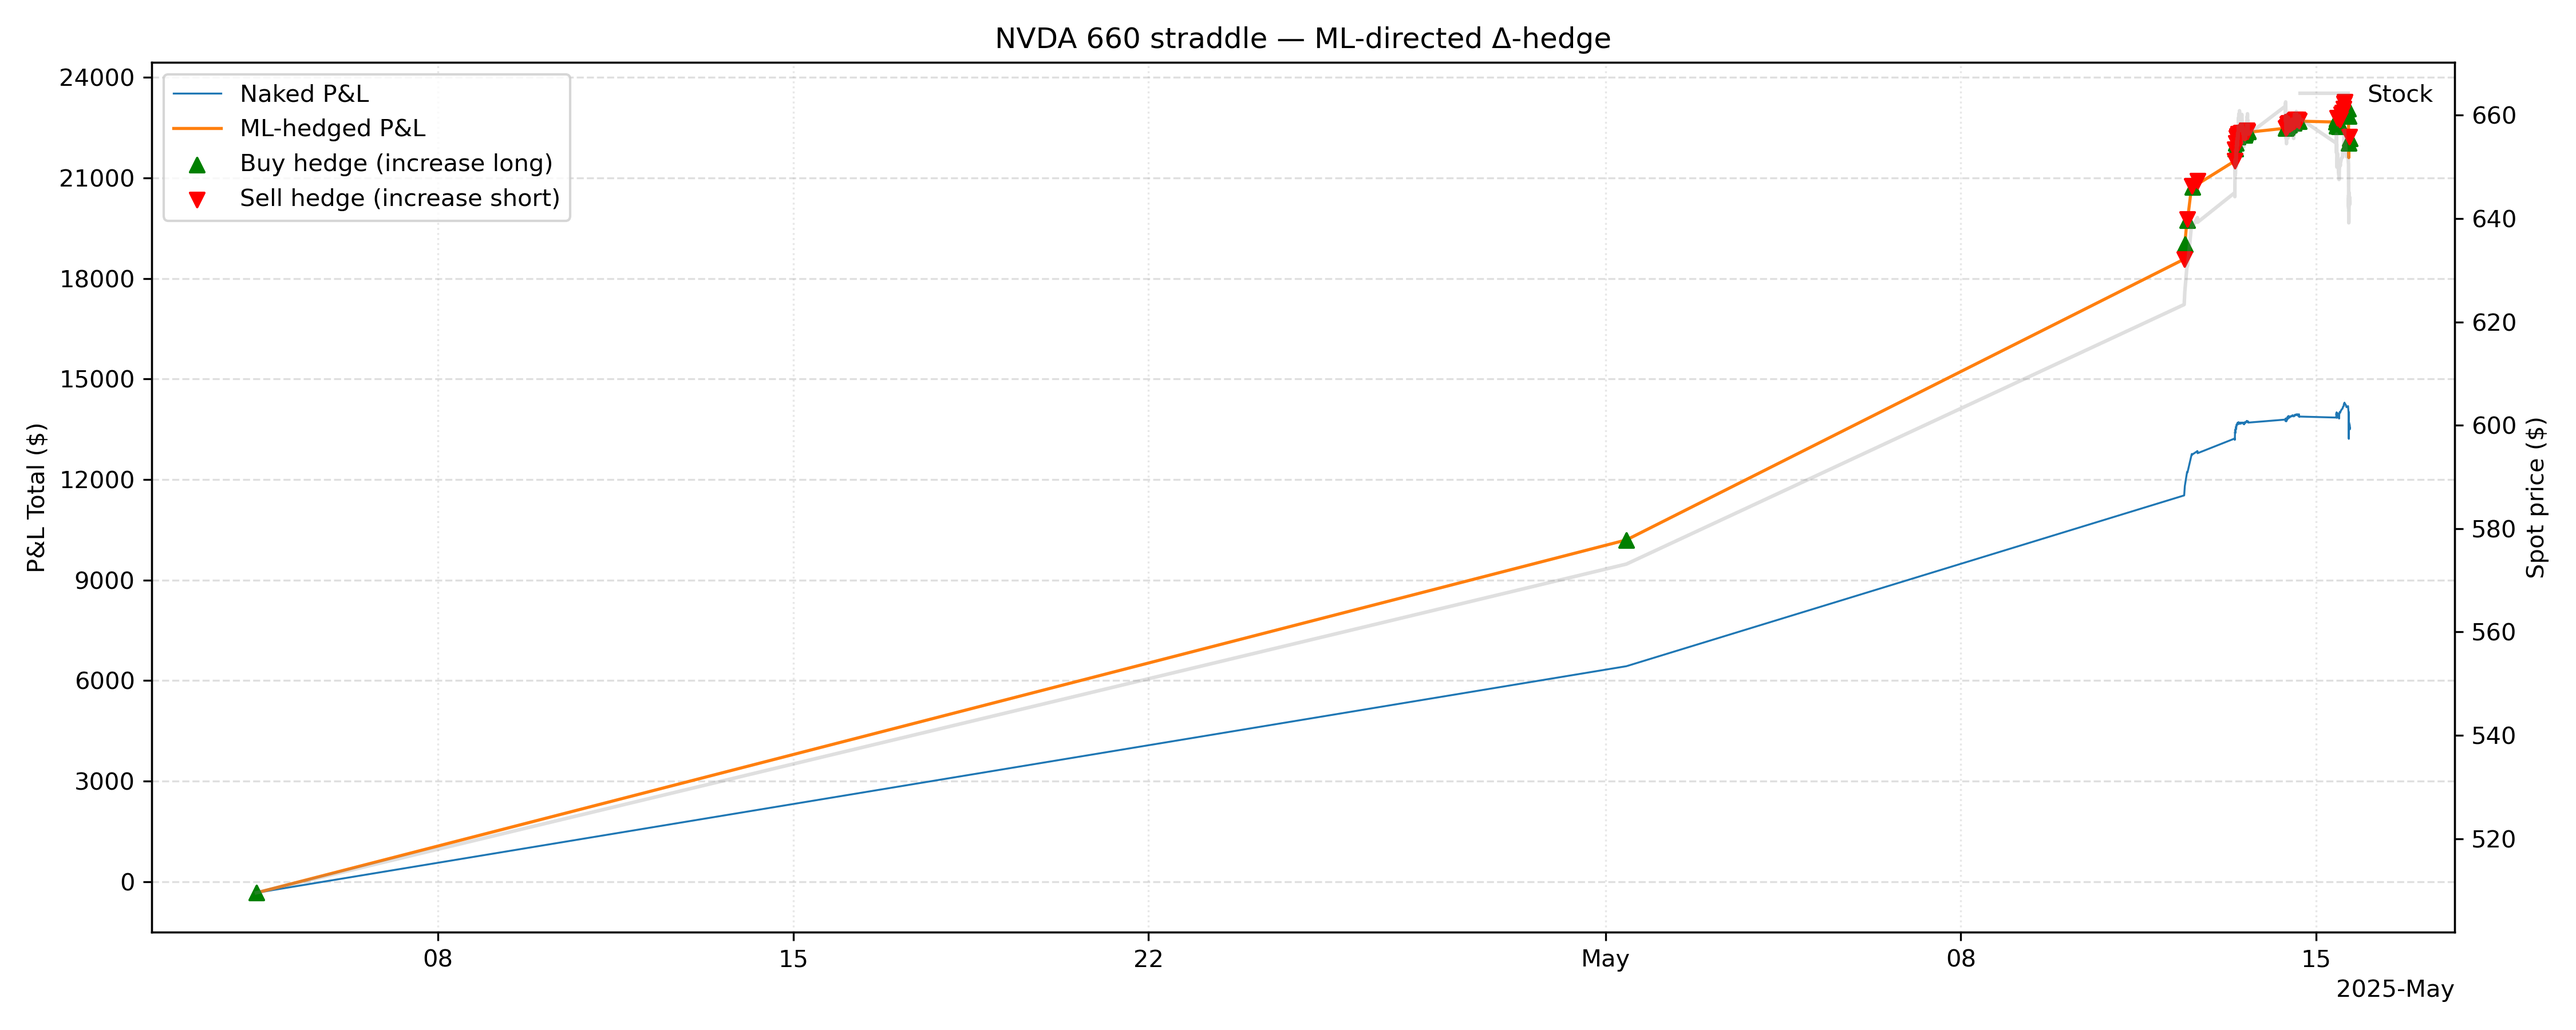
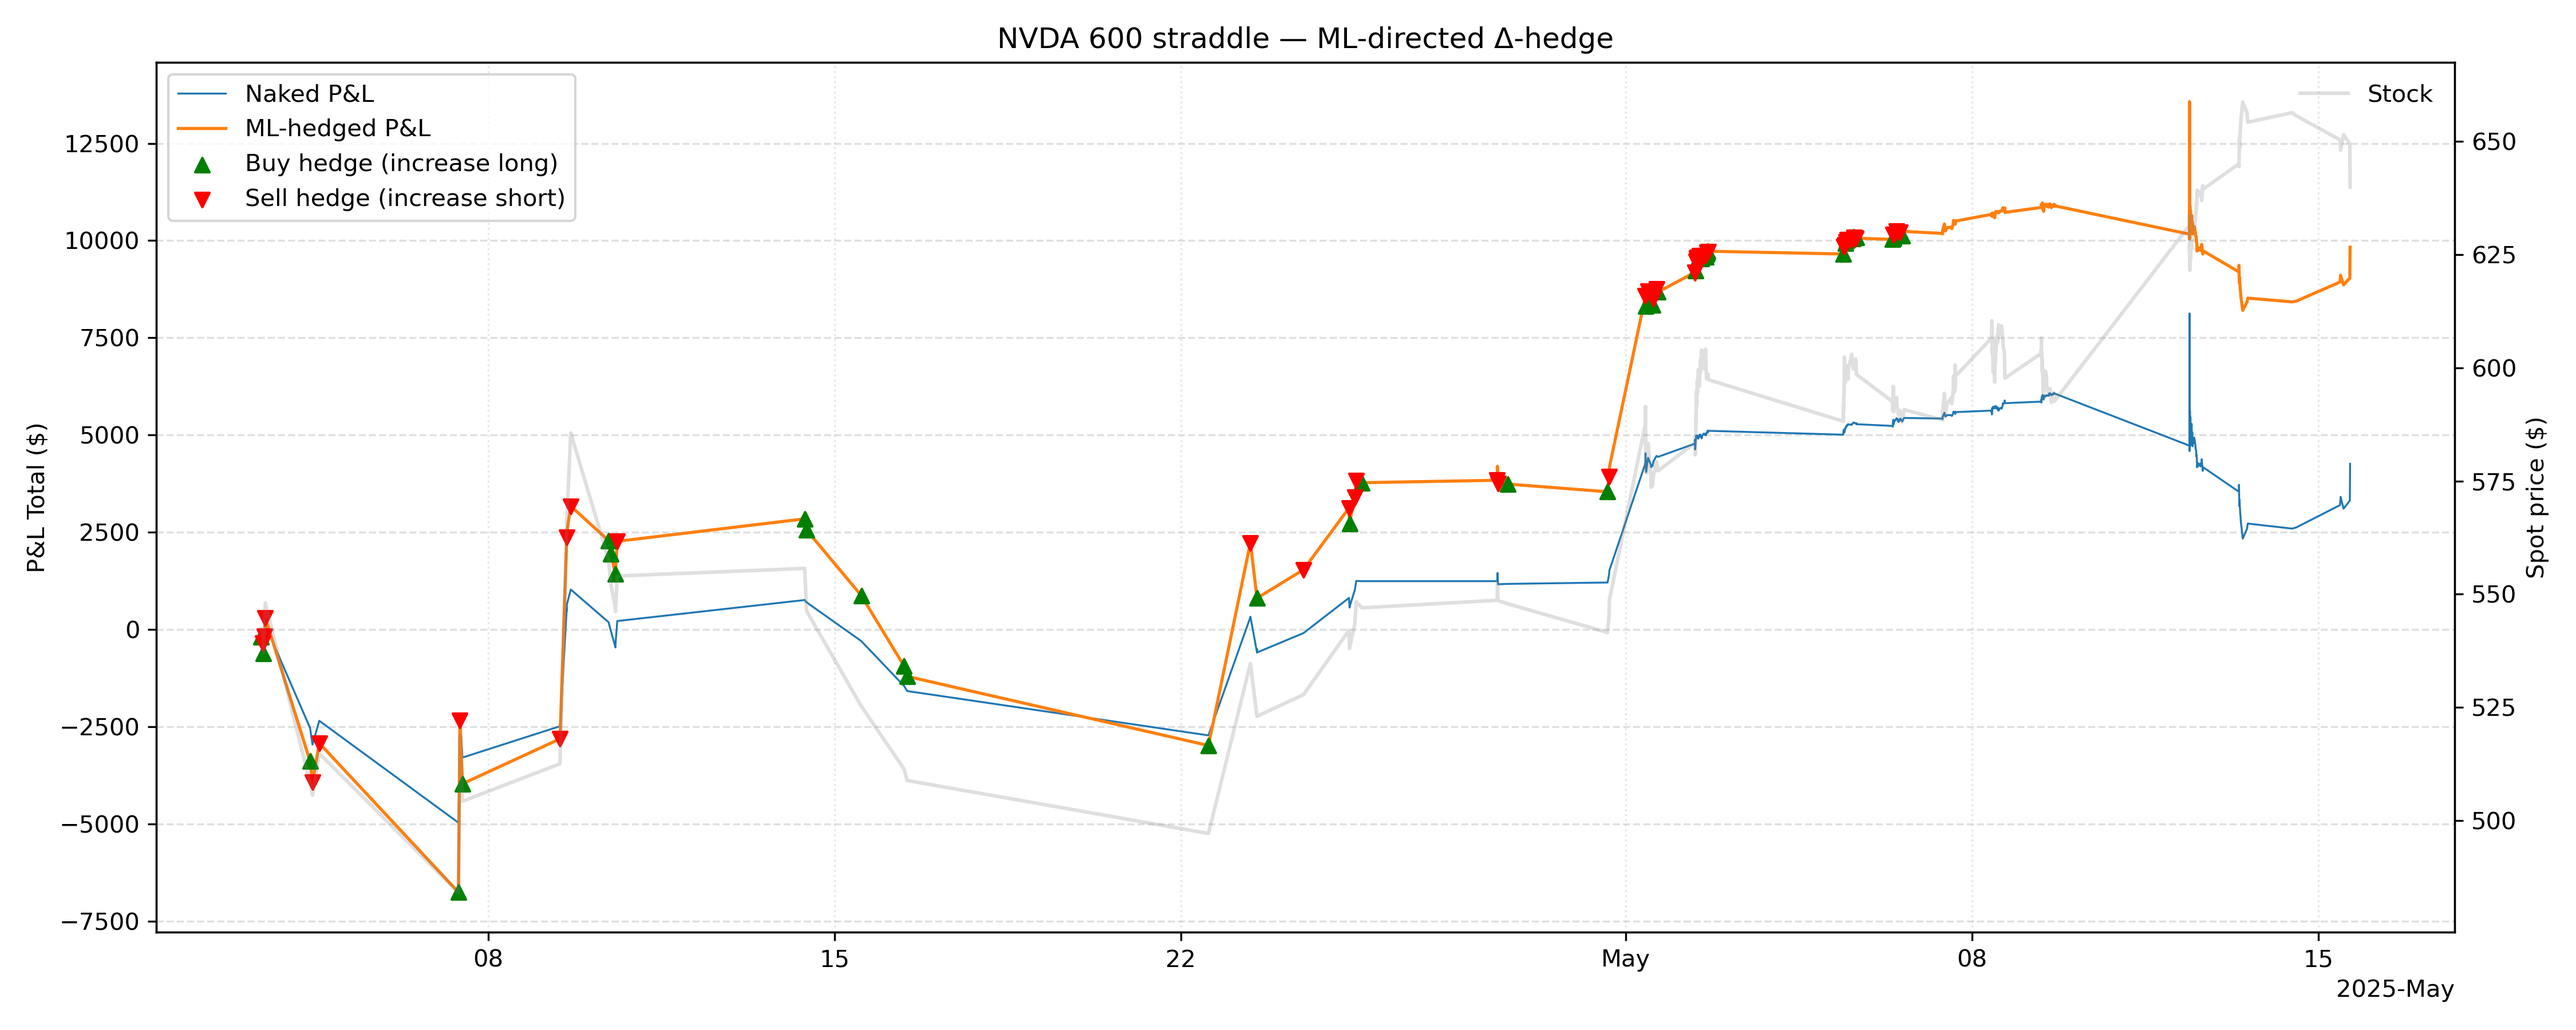
hedging signals in graph

diff --git a/Assignment 3 Hedging Optimization/gamma_signal_hedge.py b/Assignment 3 Hedging Optimization/gamma_signal_hedge.py
@@ -27,7 +27,7 @@ from scipy.optimize import brentq
 # ────────────────────────────────────────────────────────────────
 # Parameters
 # ────────────────────────────────────────────────────────────────
-strike = 600                              # common strike for call & put
+strike = 590                              # common strike for call & put
 
 DB_PATH_C = Path("META_call.db")
 DB_PATH_P  = Path("META_put.db")
@@ -219,6 +219,16 @@ df = run_gamma_aware_delta_hedge(df, eps_delta=EPS_DELTA, eps_gamma=EPS_GAMMA)
 # -------------- insert these two lines just below the call --------------
 pct_hedged = (df.target_shares != 0).mean() * 100        # % of ticks hedged
 # ------------------------------------------------------------------------
+buy_ts, buy_pnl = [], []
+sell_ts, sell_pnl = [], []
+
+for i, row in df.iterrows():
+    if row.trade_qty > 0:  # Buy stock to increase hedge
+        buy_ts.append(row.V_time)
+        buy_pnl.append(row.pnl_gamma_total)
+    elif row.trade_qty < 0:  # Sell stock to reduce hedge
+        sell_ts.append(row.V_time)
+        sell_pnl.append(row.pnl_gamma_total)
 # ────────────────────────────────────────────────────────────────
 # Console summary
 # ────────────────────────────────────────────────────────────────
@@ -266,6 +276,11 @@ ax.legend(loc="upper left")
 ax2.legend(loc="upper right", frameon=False)
 
 fig.tight_layout()
+# Plot trade markers
+ax.scatter(buy_ts, buy_pnl,  marker="^", color="green", zorder=6,
+           label="Buy hedge (increase long)")
+ax.scatter(sell_ts, sell_pnl, marker="v", color="red", zorder=6,
+           label="Sell hedge (increase short)")
 fig.savefig("straddle_hedge_comparison.png", dpi=300)
 plt.show()
 

diff --git a/Assignment 3 Hedging Optimization/hedger_ml_live.py b/Assignment 3 Hedging Optimization/hedger_ml_live.py
@@ -15,7 +15,7 @@ from scipy.optimize      import brentq
 
 # ─── User parameters ──────────────────────────────────────────────────
 
-STRIKE        = 660
+STRIKE        = 600
 ML_THRESHOLD  = 0.9
 MAX_TRADES    = 100
 COOLDOWN_MIN  = 10
